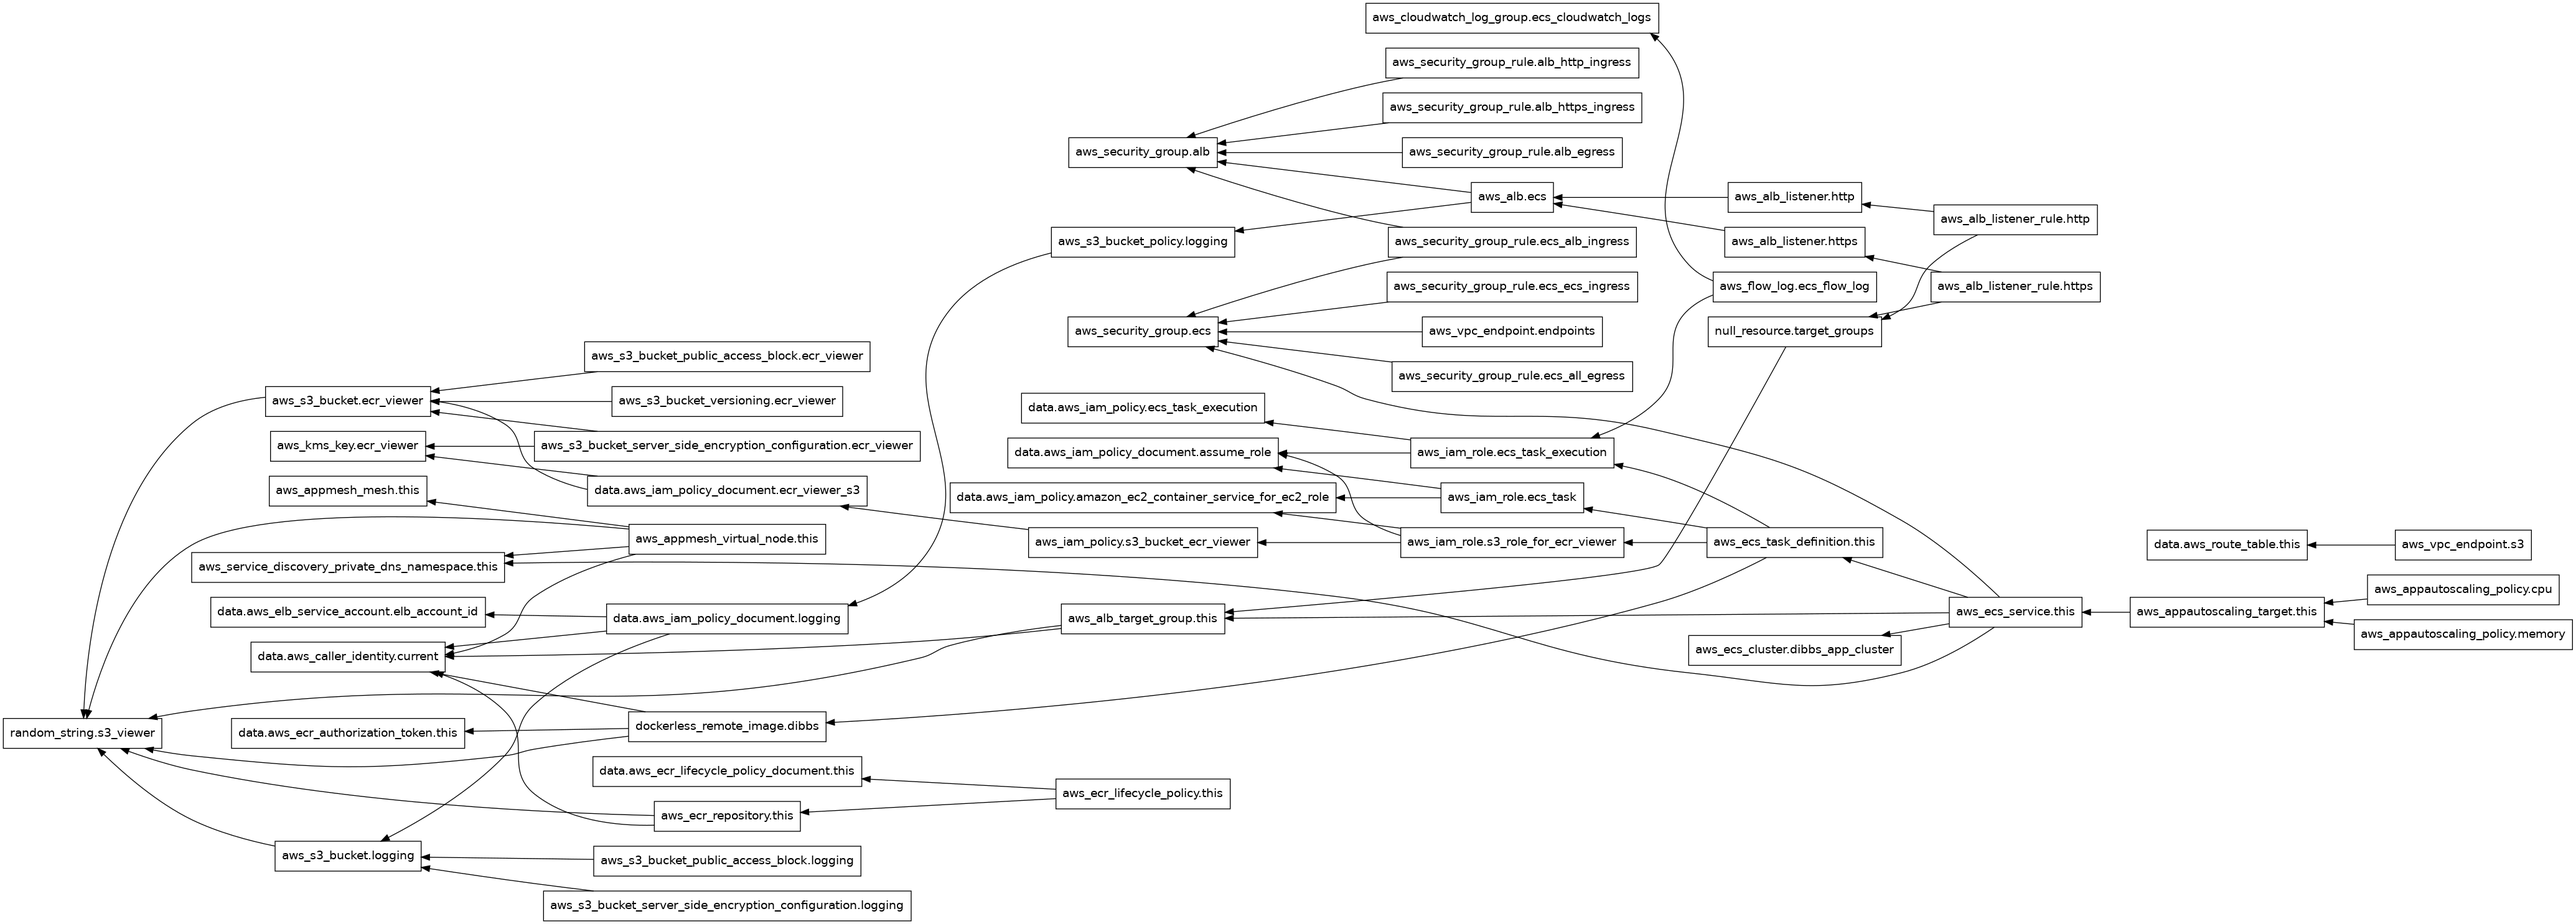
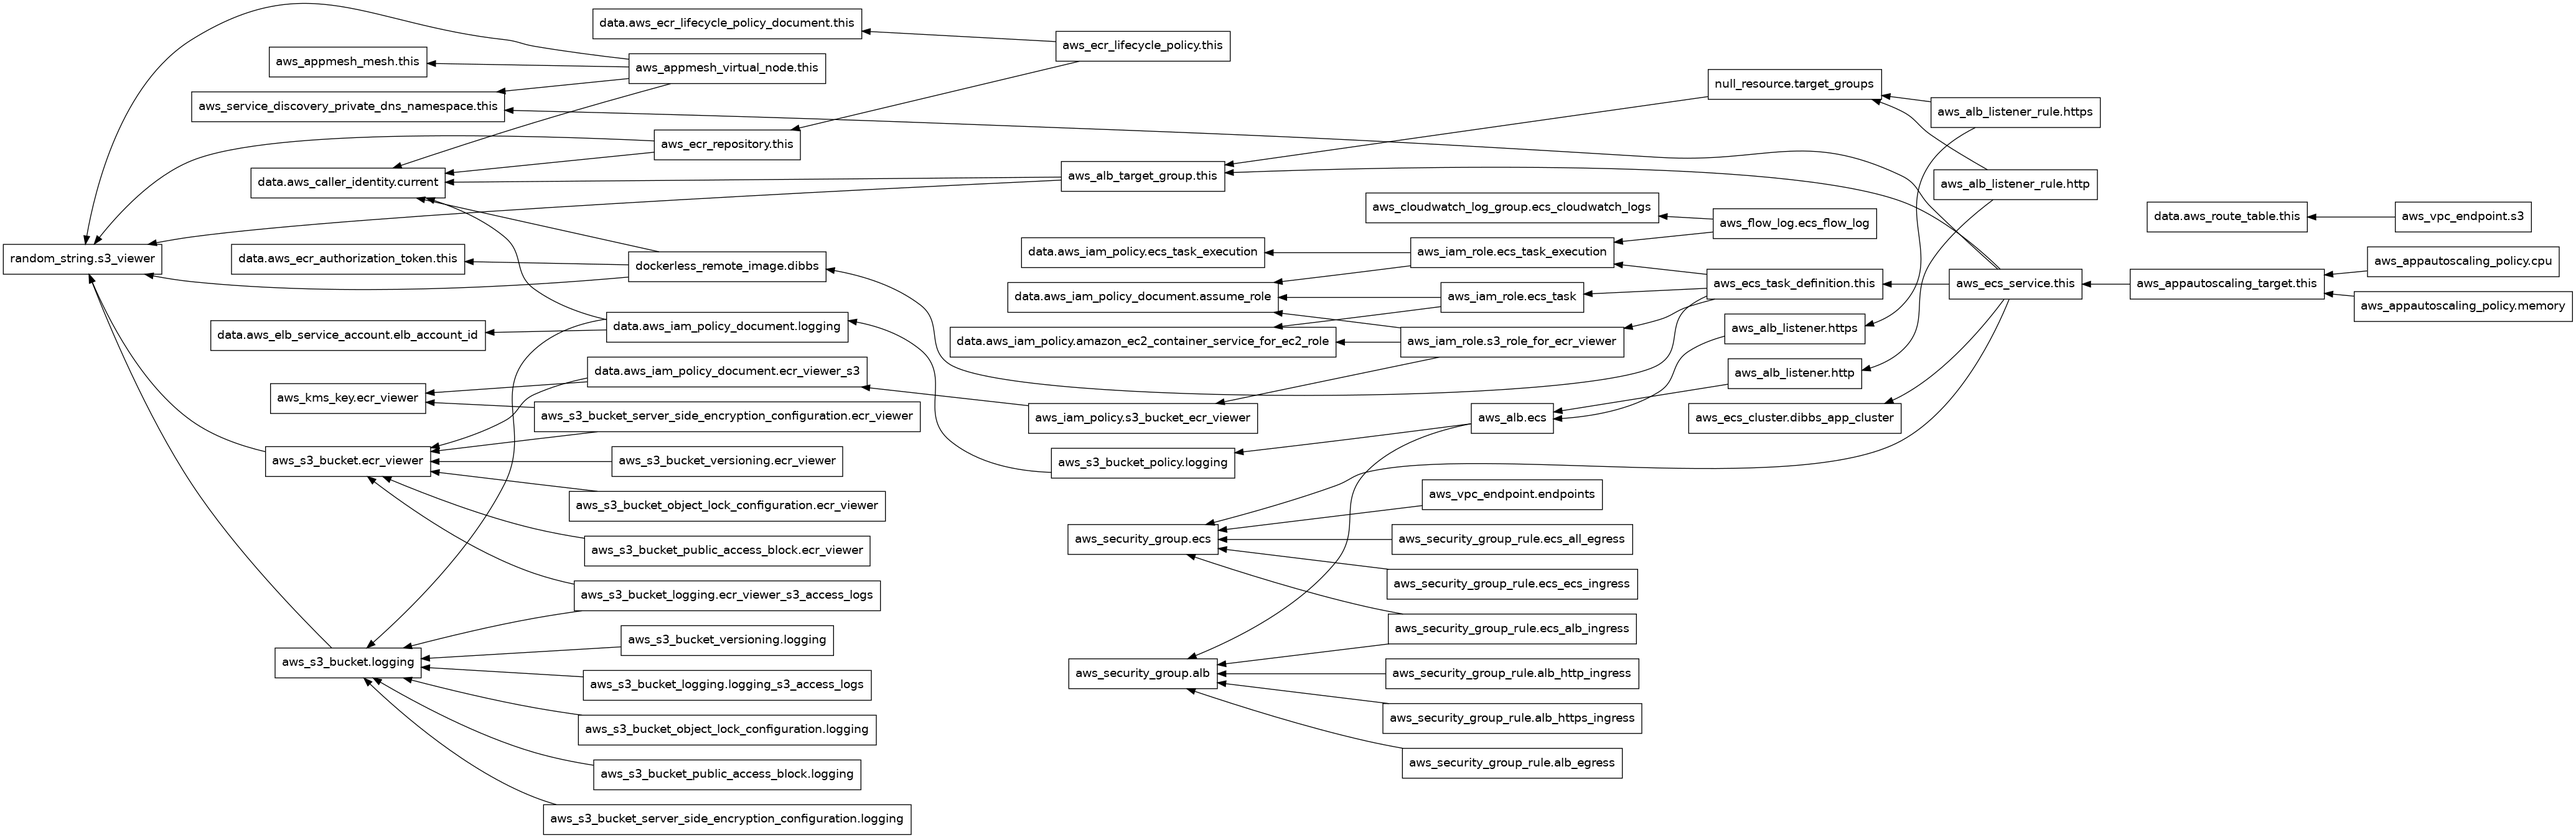
feat(README.md, graph.png): add logging resources and retention days inputs

diff --git a/README.md b/README.md
@@ -149,12 +149,17 @@ No modules.
 | [aws_kms_key.ecr_viewer](https://registry.terraform.io/providers/hashicorp/aws/latest/docs/resources/kms_key) | resource |
 | [aws_s3_bucket.ecr_viewer](https://registry.terraform.io/providers/hashicorp/aws/latest/docs/resources/s3_bucket) | resource |
 | [aws_s3_bucket.logging](https://registry.terraform.io/providers/hashicorp/aws/latest/docs/resources/s3_bucket) | resource |
+| [aws_s3_bucket_logging.ecr_viewer_s3_access_logs](https://registry.terraform.io/providers/hashicorp/aws/latest/docs/resources/s3_bucket_logging) | resource |
+| [aws_s3_bucket_logging.logging_s3_access_logs](https://registry.terraform.io/providers/hashicorp/aws/latest/docs/resources/s3_bucket_logging) | resource |
+| [aws_s3_bucket_object_lock_configuration.ecr_viewer](https://registry.terraform.io/providers/hashicorp/aws/latest/docs/resources/s3_bucket_object_lock_configuration) | resource |
+| [aws_s3_bucket_object_lock_configuration.logging](https://registry.terraform.io/providers/hashicorp/aws/latest/docs/resources/s3_bucket_object_lock_configuration) | resource |
 | [aws_s3_bucket_policy.logging](https://registry.terraform.io/providers/hashicorp/aws/latest/docs/resources/s3_bucket_policy) | resource |
 | [aws_s3_bucket_public_access_block.ecr_viewer](https://registry.terraform.io/providers/hashicorp/aws/latest/docs/resources/s3_bucket_public_access_block) | resource |
 | [aws_s3_bucket_public_access_block.logging](https://registry.terraform.io/providers/hashicorp/aws/latest/docs/resources/s3_bucket_public_access_block) | resource |
 | [aws_s3_bucket_server_side_encryption_configuration.ecr_viewer](https://registry.terraform.io/providers/hashicorp/aws/latest/docs/resources/s3_bucket_server_side_encryption_configuration) | resource |
 | [aws_s3_bucket_server_side_encryption_configuration.logging](https://registry.terraform.io/providers/hashicorp/aws/latest/docs/resources/s3_bucket_server_side_encryption_configuration) | resource |
 | [aws_s3_bucket_versioning.ecr_viewer](https://registry.terraform.io/providers/hashicorp/aws/latest/docs/resources/s3_bucket_versioning) | resource |
+| [aws_s3_bucket_versioning.logging](https://registry.terraform.io/providers/hashicorp/aws/latest/docs/resources/s3_bucket_versioning) | resource |
 | [aws_security_group.alb](https://registry.terraform.io/providers/hashicorp/aws/latest/docs/resources/security_group) | resource |
 | [aws_security_group.ecs](https://registry.terraform.io/providers/hashicorp/aws/latest/docs/resources/security_group) | resource |
 | [aws_security_group_rule.alb_egress](https://registry.terraform.io/providers/hashicorp/aws/latest/docs/resources/security_group_rule) | resource |
@@ -199,6 +204,7 @@ No modules.
 | <a name="input_disable_ecr"></a> [disable\_ecr](#input\_disable\_ecr) | Flag to disable the aws ecr service for docker image storage, defaults to false | `bool` | `false` | no |
 | <a name="input_ecr_viewer_auth_api_pub_key"></a> [ecr\_viewer\_auth\_api\_pub\_key](#input\_ecr\_viewer\_auth\_api\_pub\_key) | The public key used to validate the incoming authenication for the eCR Viewer API. | `string` | `""` | no |
 | <a name="input_ecr_viewer_auth_pub_key"></a> [ecr\_viewer\_auth\_pub\_key](#input\_ecr\_viewer\_auth\_pub\_key) | The public key used to validate the incoming authenication for the eCR Viewer. | `string` | `""` | no |
+| <a name="input_ecr_viewer_object_retention_days"></a> [ecr\_viewer\_object\_retention\_days](#input\_ecr\_viewer\_object\_retention\_days) | Number of days to retain S3 ecr viewer objects in compliance mode | `number` | `3650` | no |
 | <a name="input_ecs_alb_name"></a> [ecs\_alb\_name](#input\_ecs\_alb\_name) | Name of the Application Load Balancer (ALB) | `string` | `""` | no |
 | <a name="input_ecs_alb_tg_name"></a> [ecs\_alb\_tg\_name](#input\_ecs\_alb\_tg\_name) | Name of the ALB Target Group | `string` | `""` | no |
 | <a name="input_ecs_cloudwatch_group"></a> [ecs\_cloudwatch\_group](#input\_ecs\_cloudwatch\_group) | Name of the AWS CloudWatch Log Group for ECS | `string` | `""` | no |
@@ -208,6 +214,7 @@ No modules.
 | <a name="input_enable_alb_logs"></a> [enable\_alb\_logs](#input\_enable\_alb\_logs) | Flag to enable ALB access and connection logging to s3 logging bucket | `bool` | `true` | no |
 | <a name="input_enable_autoscaling"></a> [enable\_autoscaling](#input\_enable\_autoscaling) | Flag to enable autoscaling for the ECS services | `bool` | `true` | no |
 | <a name="input_internal"></a> [internal](#input\_internal) | Flag to determine if the several AWS resources are public (intended for external access, public internet) or private (only intended to be accessed within your AWS VPC or avaiable with other means, a transit gateway for example). | `bool` | `true` | no |
+| <a name="input_logging_object_retention_days"></a> [logging\_object\_retention\_days](#input\_logging\_object\_retention\_days) | Number of days to retain S3 logging objects in compliance mode | `number` | `90` | no |
 | <a name="input_override_autoscaling"></a> [override\_autoscaling](#input\_override\_autoscaling) | Autoscaling configuration for the DIBBS services | <pre>map(object({<br>    cpu           = number<br>    memory        = number<br>    min_capacity  = number<br>    max_capacity  = number<br>    target_cpu    = number<br>    target_memory = number<br>  }))</pre> | `{}` | no |
 | <a name="input_owner"></a> [owner](#input\_owner) | Owner of the resources | `string` | `"CDC"` | no |
 | <a name="input_phdi_version"></a> [phdi\_version](#input\_phdi\_version) | Version of the PHDI application | `string` | `"v2.0.0-beta"` | no |
